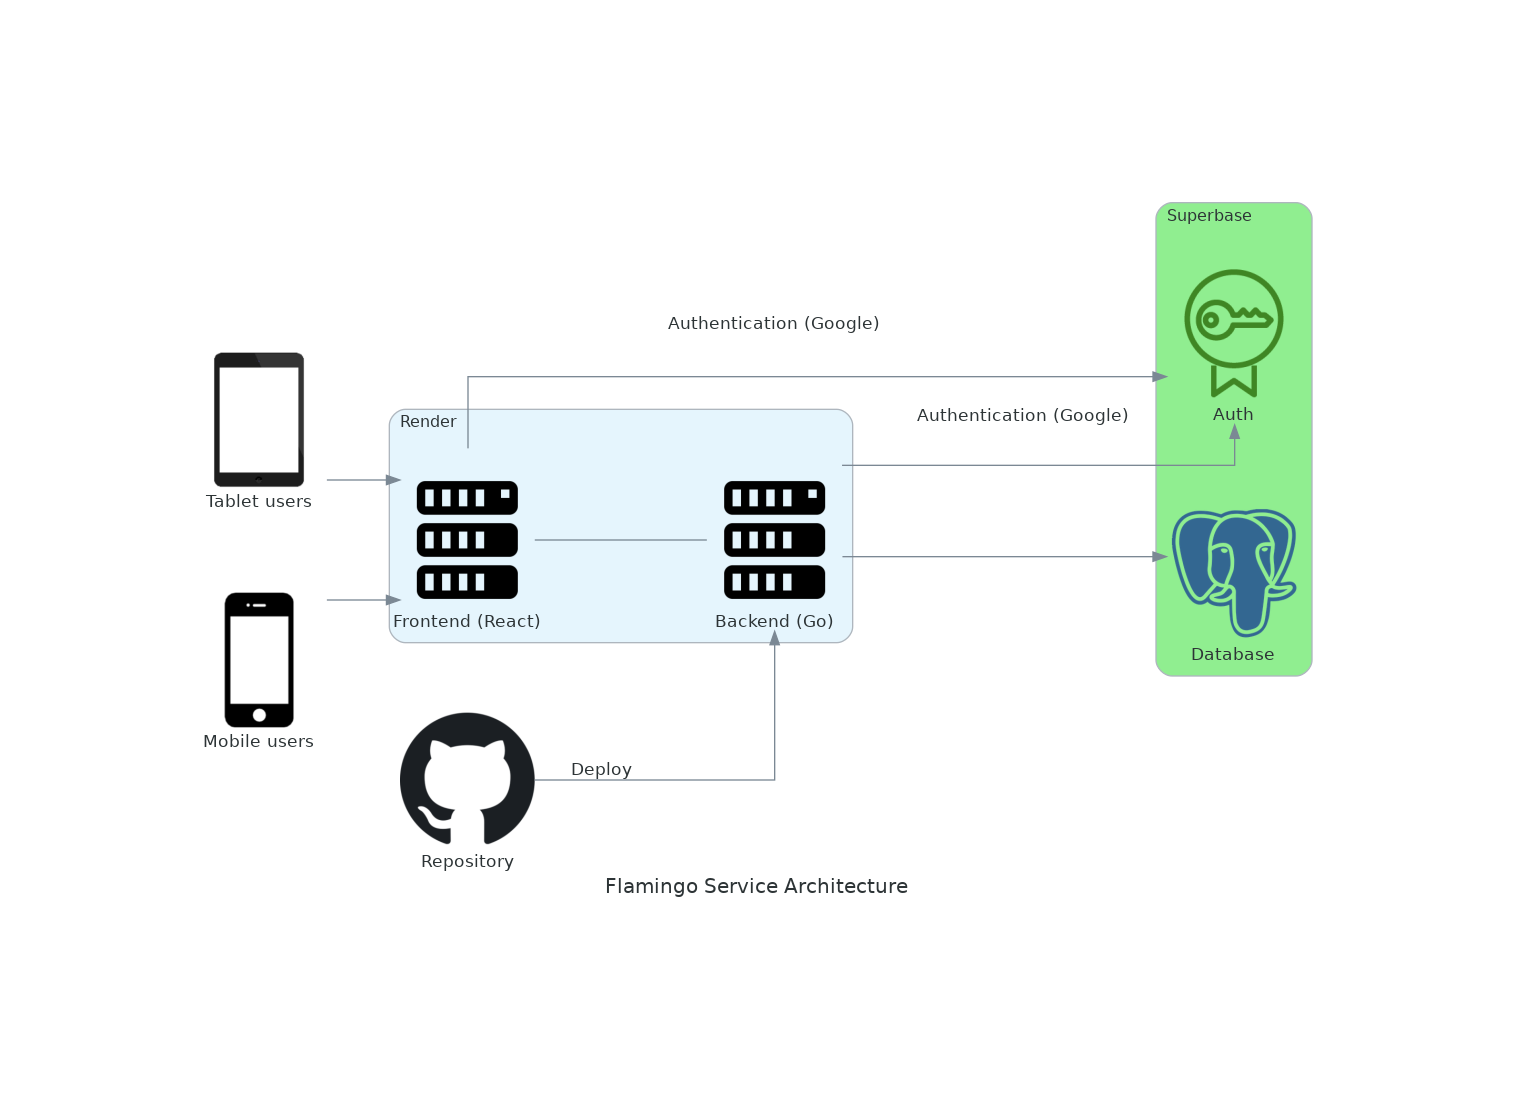
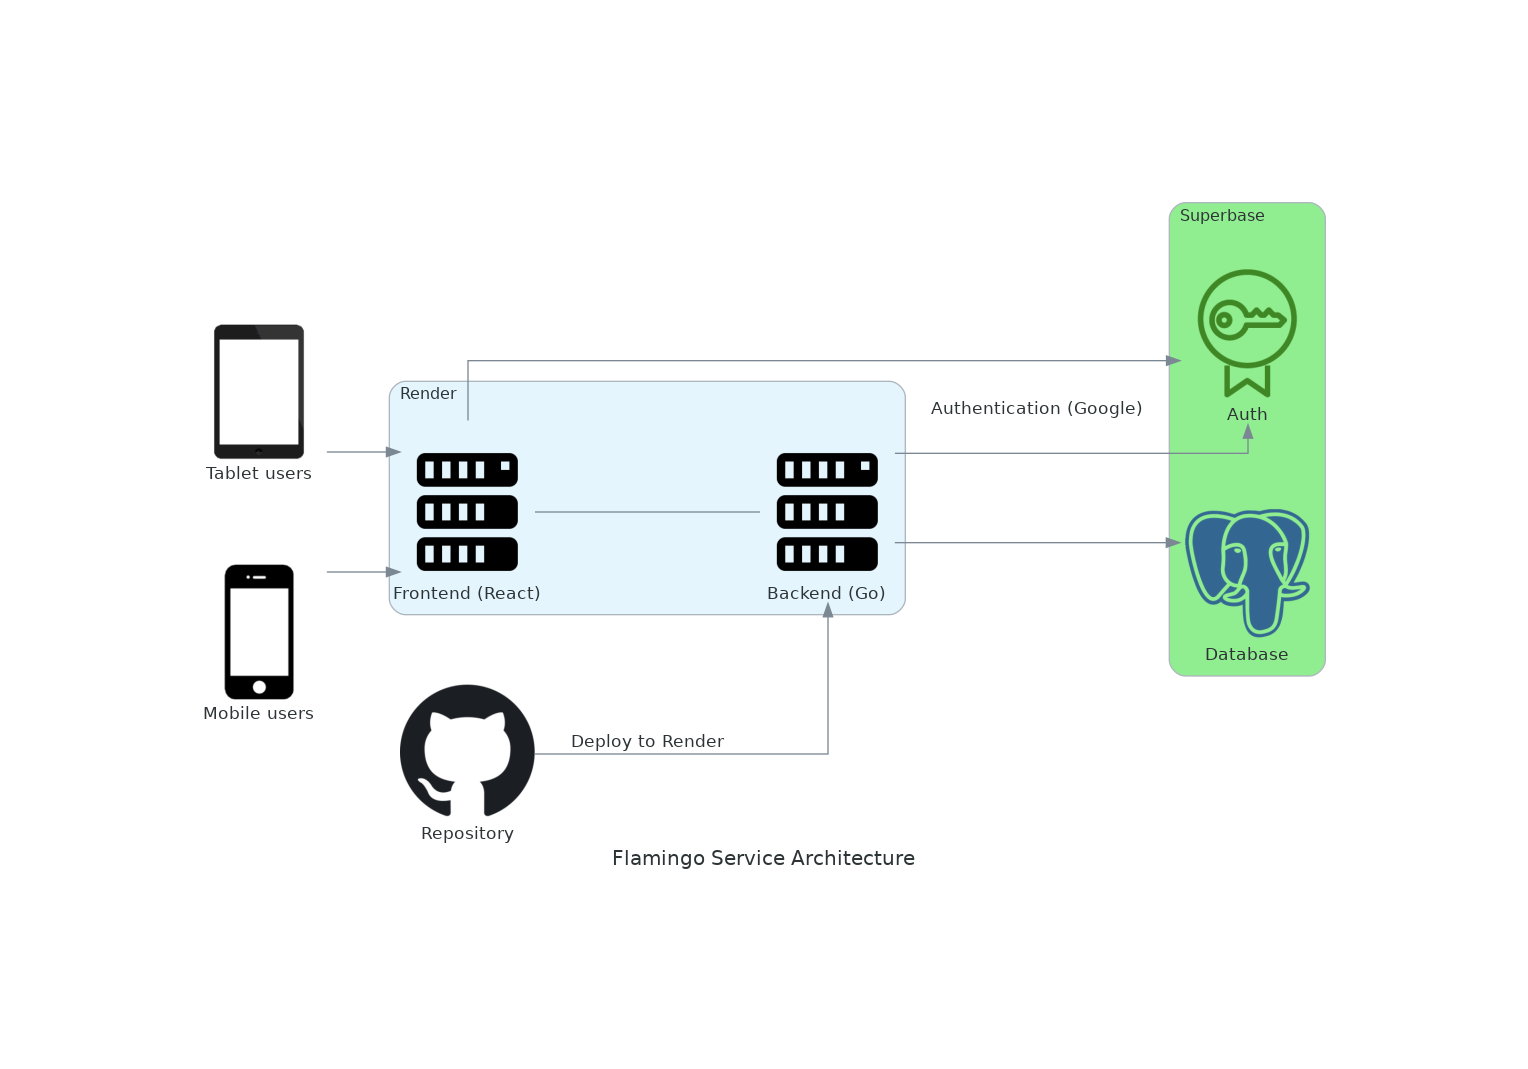
Fix typos and image

diff --git a/docs/diagram.py b/docs/diagram.py
@@ -26,7 +26,7 @@ with Diagram("Flamingo Service Architecture",  filename="diagram", show=False):
     
     backend >> database
     backend >> Edge(label="Authentication (Google)") >> auth
-    frontend >> Edge(label="Authentication (Google)") >> auth
-    github >> Edge(label="Deploy") >> render
+    frontend >> auth
+    github >> Edge(label="Deploy to Render") >> render
     tablet >> frontend
     mobile >> frontend

diff --git a/docs/README.md b/docs/README.md
@@ -12,4 +12,4 @@ This directory
 1. Install [Diagrams](https://diagrams.mingrammer.com/docs/getting-started/installation#quick-start)
 
 ## Generate Image
-2. Run `phthon diagram.py`
+2. Run `python diagram.py`
